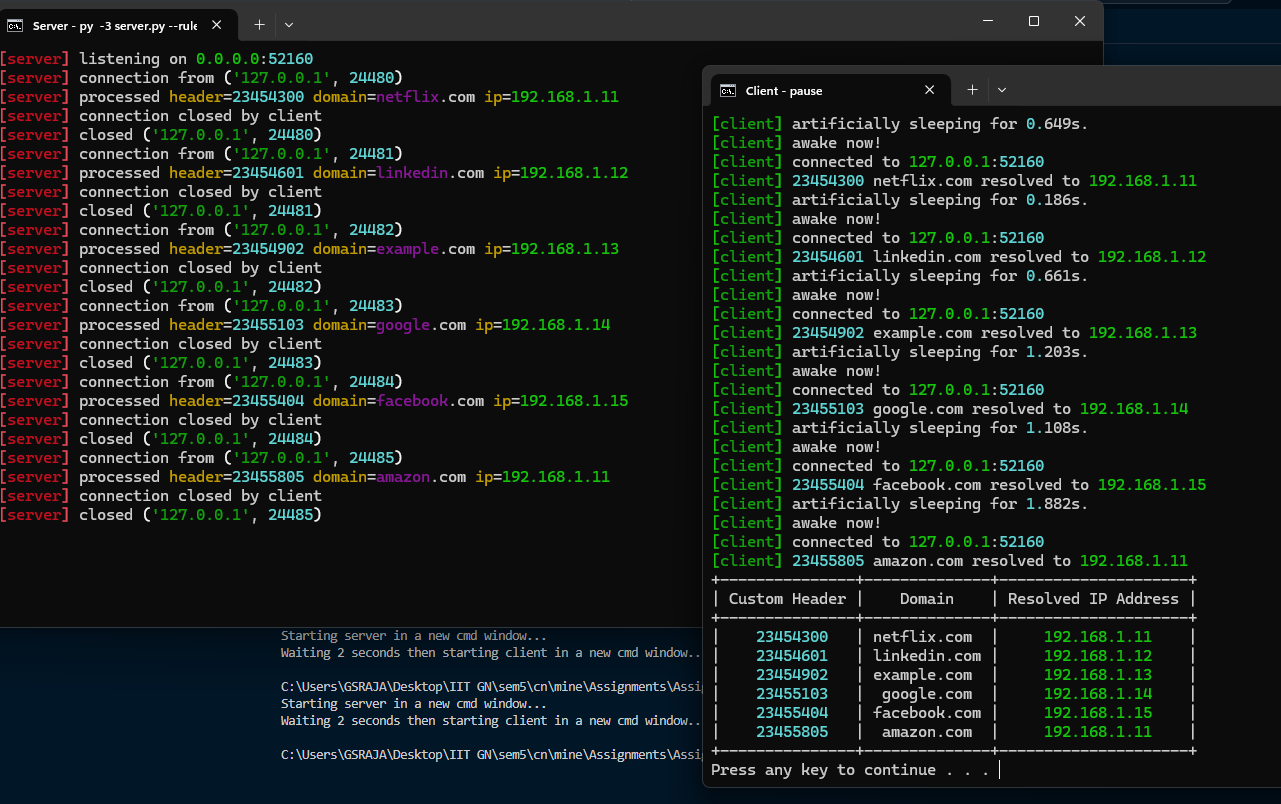
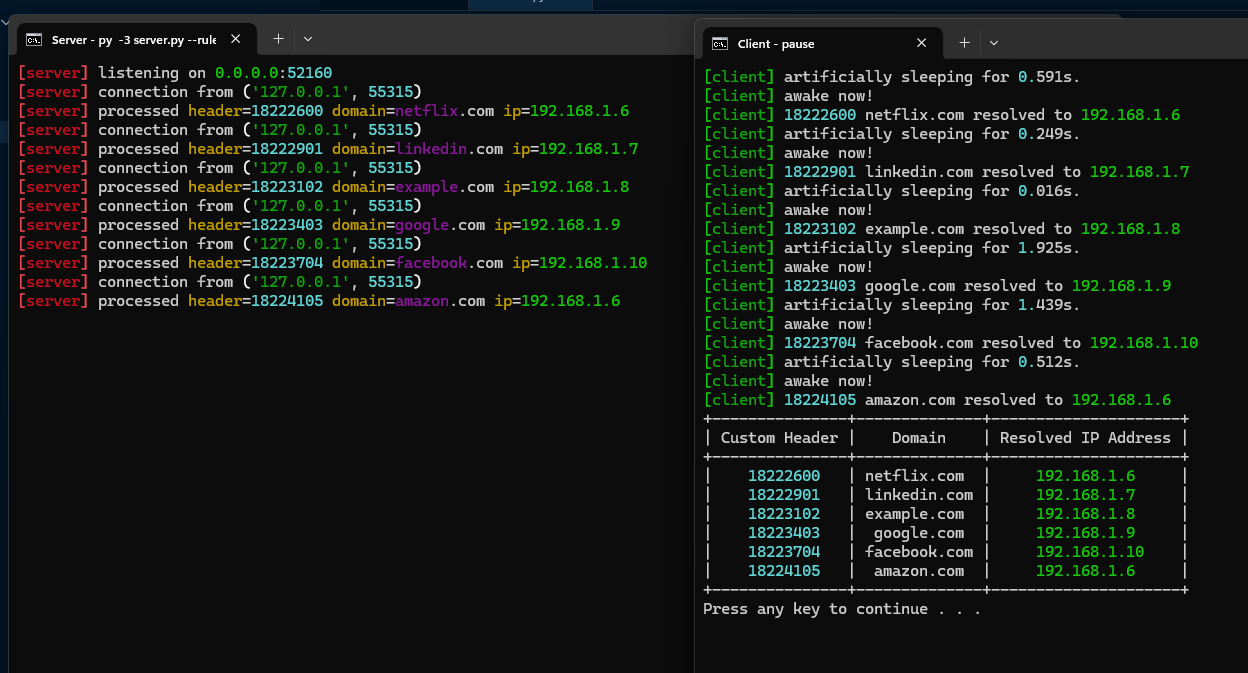
shift to UDP (simple and good)

diff --git a/Task 1/client.py b/Task 1/client.py
@@ -1,82 +1,76 @@
 import argparse
 import dpkt
 import socket
-import struct
 from datetime import datetime
 from prettytable import PrettyTable
-from helpers import is_dns, recieve_n_bytes, default_port
+from helpers import is_dns, default_port
 from rich import print
 from rich.markup import escape
 from time import sleep
 from random import random
 
-# process a pcap file, extract DNS queries (UDP port 53),
-# and send them to the custom DNS server with an added custom header.
+# # process a pcap file, extract DNS queries (UDP port 53),
+# # and send them to the custom DNS server with an added custom header.
 def process_pcap(pcap_path, server_host, server_port, sleep_seconds):
     queries = []
+    # single UDP socket for all queries
+    udp_socket = socket.socket(socket.AF_INET, socket.SOCK_DGRAM)
+
     with open(pcap_path, "rb") as f:
         pcap = dpkt.pcap.Reader(f)
-        i = 0 # counter for generating 2-digit sequence IDs
+        i = 0  # counter for generating 2-digit sequence IDs
         for ts, buf in pcap:
             # Parse Ethernet frame
             try:
-                eth = dpkt.ethernet.Ethernet(buf) # LAYER 2
+                eth = dpkt.ethernet.Ethernet(buf)  # LAYER 2
             except Exception:
                 continue
-            ip = eth.data # LAYER 3
-            
+            ip = eth.data  # LAYER 3
+
             # skip non-IPv4 packets
             if not isinstance(ip, dpkt.ip.IP):
                 continue
-            udp = ip.data # LAYER 4
+            udp = ip.data  # LAYER 4
             if not isinstance(udp, dpkt.udp.UDP):
                 continue
             # only process DNS queries (port 53)
             if udp.dport != 53:
                 continue
-            
+
             # check if the packet is DNS packet
             if is_dns(udp.data):
                 # artificially sleep to simulate the actual delay between two dns calls, as we skip non DNS packets
                 if sleep_seconds != 0:
-                    sleep_val = random()*sleep_seconds
+                    sleep_val = random() * sleep_seconds
                     print(
                         f"[green]{escape('[client]')}[/green] artificially sleeping for {sleep_val:.3f}s."
                     )
                     sleep(sleep_val)
-                    print(
-                        f"[green]{escape('[client]')}[/green] awake now!"
-                    )
+                    print(f"[green]{escape('[client]')}[/green] awake now!")
 
-                # open TCP connection to server
-                conn = socket.socket(socket.AF_INET, socket.SOCK_STREAM)
-                conn.connect((server_host, server_port))
-                print(
-                    f"[green]{escape('[client]')}[/green] connected to {server_host}:{server_port}"
-                )
-                
-                # build custom 8-byte header: HHMMSS + 2-digit sequence ID
-                seq_id = i % 100  # two-digit id wraps after 99
-                header = datetime.now().strftime("%H%M%S") + f"{seq_id:02d}"  # 8 chars
+                seq_id = i % 100
+                header = datetime.now().strftime("%H%M%S") + f"{seq_id:02d}"
                 header = header.ljust(8, "0")
-                
+
+                # prepare payload
                 payload = header.encode("ascii") + udp.data
-                conn.sendall(struct.pack("!I", len(payload)) + payload)
-                
-                # read length prefixed response
-                _len = recieve_n_bytes(conn, 4)
-                if not _len:
+
+                udp_socket.sendto(payload, (server_host, server_port))
+
+                # recieve response
+                try:
+                    # timeout to avoid waiting forever
+                    udp_socket.settimeout(8.0)
+                    response_bytes, _ = udp_socket.recvfrom(4096)
+                except socket.timeout:
                     print(
-                        f"[green]{escape('[client]')}[/green] server closed connection unexpectedly"
+                        f"[green]{escape('[client]')}[/green] server did not respond in time"
                     )
+                    continue
+                except Exception as e:
+                    print(f"[green]{escape('[client]')}[/green] an error occurred: {e}")
                     break
 
-                (resp_len,) = struct.unpack("!I", _len)
-                response_bytes = recieve_n_bytes(conn, resp_len)
-                if response_bytes is None:
-                    print(f"[green]{escape('[client]')}[/green] incomplete response")
-                    break
-                
                 # parse JSON response from server
                 try:
                     resp = json.loads(response_bytes.decode("utf-8"))
@@ -86,7 +80,7 @@ def process_pcap(pcap_path, server_host, server_port, sleep_seconds):
                         "domain": "error_in_parsing",
                         "ip": "error_in_parsing",
                     }
-                
+
                 custom_header = resp.get("header", header)
                 domain = resp.get("domain", "<unknown>")
                 ip = resp.get("ip", "<unknown>")
@@ -94,12 +88,14 @@ def process_pcap(pcap_path, server_host, server_port, sleep_seconds):
                 print(
                     f"[green]{escape('[client]')}[/green] {custom_header} {domain} resolved to {ip}"
                 )
-                i += 1 # increment sequence ID for next query
+                i += 1  # increment sequence ID for next query
+
+    udp_socket.close()  # CLOse the socket
     return queries
 
 
-def main(pcap, server_host, server_port,sleep_seconds):
-    queries = process_pcap(pcap, server_host, server_port,sleep_seconds)
+def main(pcap, server_host, server_port, sleep_seconds):
+    queries = process_pcap(pcap, server_host, server_port, sleep_seconds)
     table = PrettyTable(["Custom Header", "Domain", "Resolved IP Address"])
 
     # Add results to table
@@ -116,6 +112,11 @@ if __name__ == "__main__":
     parser.add_argument("--pcap", required=True, help="input pcap file")
     parser.add_argument("--server", default="127.0.0.1", help="server IP")
     parser.add_argument("--port", type=int, default=default_port, help="server port")
-    parser.add_argument("--sleep_seconds", type=int, default=2, help="maximum number of seconds to sleep before sending each dns request")
+    parser.add_argument(
+        "--sleep_seconds",
+        type=int,
+        default=2,
+        help="maximum number of seconds to sleep before sending each dns request",
+    )
     args = parser.parse_args()
-    main(args.pcap, args.server, args.port,args.sleep_seconds)
+    main(args.pcap, args.server, args.port, args.sleep_seconds)

diff --git a/Task 1/server.py b/Task 1/server.py
@@ -1,8 +1,7 @@
 import argparse
 import socket
-import struct
 import json
-from helpers import recieve_n_bytes, DNSPacket, default_port
+from helpers import DNSPacket, default_port
 from rich import print
 from rich.markup import escape
 
@@ -62,23 +61,18 @@ def get_ip_from_rules(header, rules):
     idx = ((_id % mod) + int(period_routing["ip_pool_start"])) % len(IP_Pool)
     return IP_Pool[idx]
 
-# serve a single tcp client
-def serve_client(conn, addr, rules):
-    print(f"[red]{escape('[server]')}[/red] connection from {addr}")
+
+def run(host, port, rules_path):
+    rules = load_rules(rules_path)
+    sock = socket.socket(socket.AF_INET, socket.SOCK_DGRAM) # use UDP
+    sock.bind((host, port))
+    print(f"[red]{escape('[server]')}[/red] listening on {host}:{port}")
     try:
         while True:
-            # read 4-byte length prefix 
-            _len = recieve_n_bytes(conn, 4)
-            if not _len:
-                print(f"[red]{escape('[server]')}[/red] connection closed by client")
-                break
-            (length,) = struct.unpack("!I", _len)
+            # receive data and client address
+            payload, addr = sock.recvfrom(4096)
+            print(f"[red]{escape('[server]')}[/red] connection from {addr}")
             
-            # read message payload of prefix length
-            payload = recieve_n_bytes(conn, length)
-            if payload is None:
-                print(f"[red]{escape('[server]')}[/red] incomplete payload")
-                break
             try:
                 header, dns_bytes = split_custom_header_and_dns(payload)
                 domain = DNSPacket(dns_bytes).get_domain()
@@ -92,30 +86,16 @@ def serve_client(conn, addr, rules):
                     "error": str(e),
                 }
             resp_bytes = json.dumps(resp).encode("utf-8")
-            conn.sendall(struct.pack("!I", len(resp_bytes)) + resp_bytes)
+            
+            sock.sendto(resp_bytes, addr)
             print(
                 f"[red]{escape('[server]')}[/red] processed header={resp['header']} domain={resp['domain']} ip={resp['ip']}"
             )
-    finally:
-        conn.close()
-        print(f"[red]{escape('[server]')}[/red] closed {addr}")
-
-
-def run(host, port, rules_path):
-    rules = load_rules(rules_path)
-    sock = socket.socket(socket.AF_INET, socket.SOCK_STREAM)
-    sock.bind((host, port))
-    sock.listen(5)
-    print(f"[red]{escape('[server]')}[/red] listening on {host}:{port}")
-    try:
-        while True:
-            conn, addr = sock.accept()
-            # handle one client at a time in same process
-            serve_client(conn, addr, rules)
     except KeyboardInterrupt:
         print(f"[red]{escape('[server]')}[/red] exiting")
     finally:
         sock.close()
+
 
 
 if __name__ == "__main__":

diff --git a/Task 1/helpers.py b/Task 1/helpers.py
@@ -10,18 +10,6 @@ default_port = (
 )
 
 
-# Receive exactly n bytes from a socket connection.
-# Keeps reading until the buffer has n bytes or connection closes.
-def recieve_n_bytes(conn, n):
-    buf = b""
-    while len(buf) < n:
-        chunk = conn.recv(n - len(buf))
-        if not chunk:
-            return None
-        buf += chunk
-    return buf
-
-
 def is_dns(data: bytes):
     # First 12 bytes = header
     if len(data) < 12:
